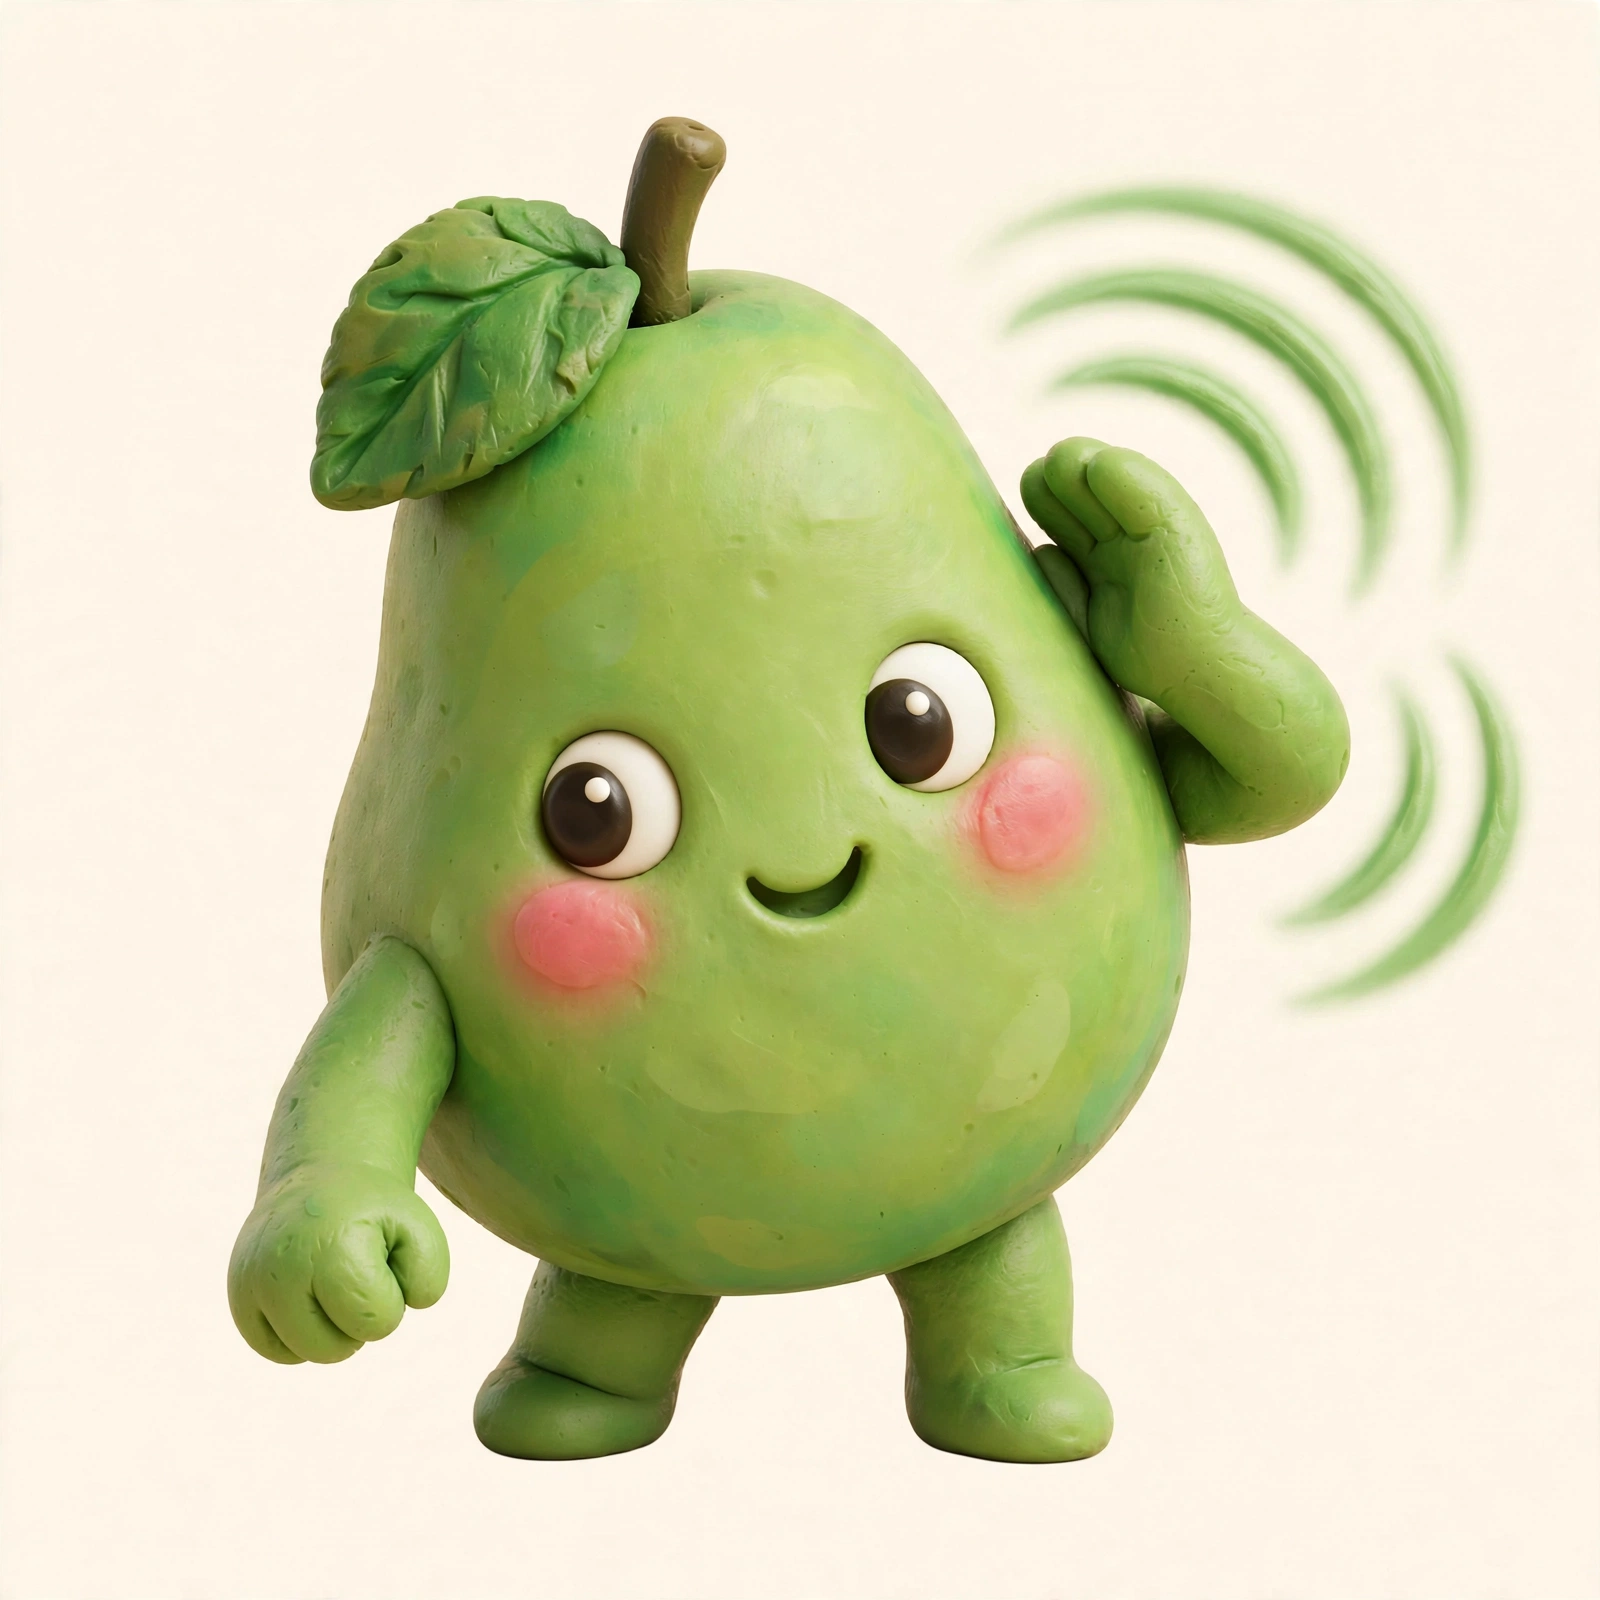
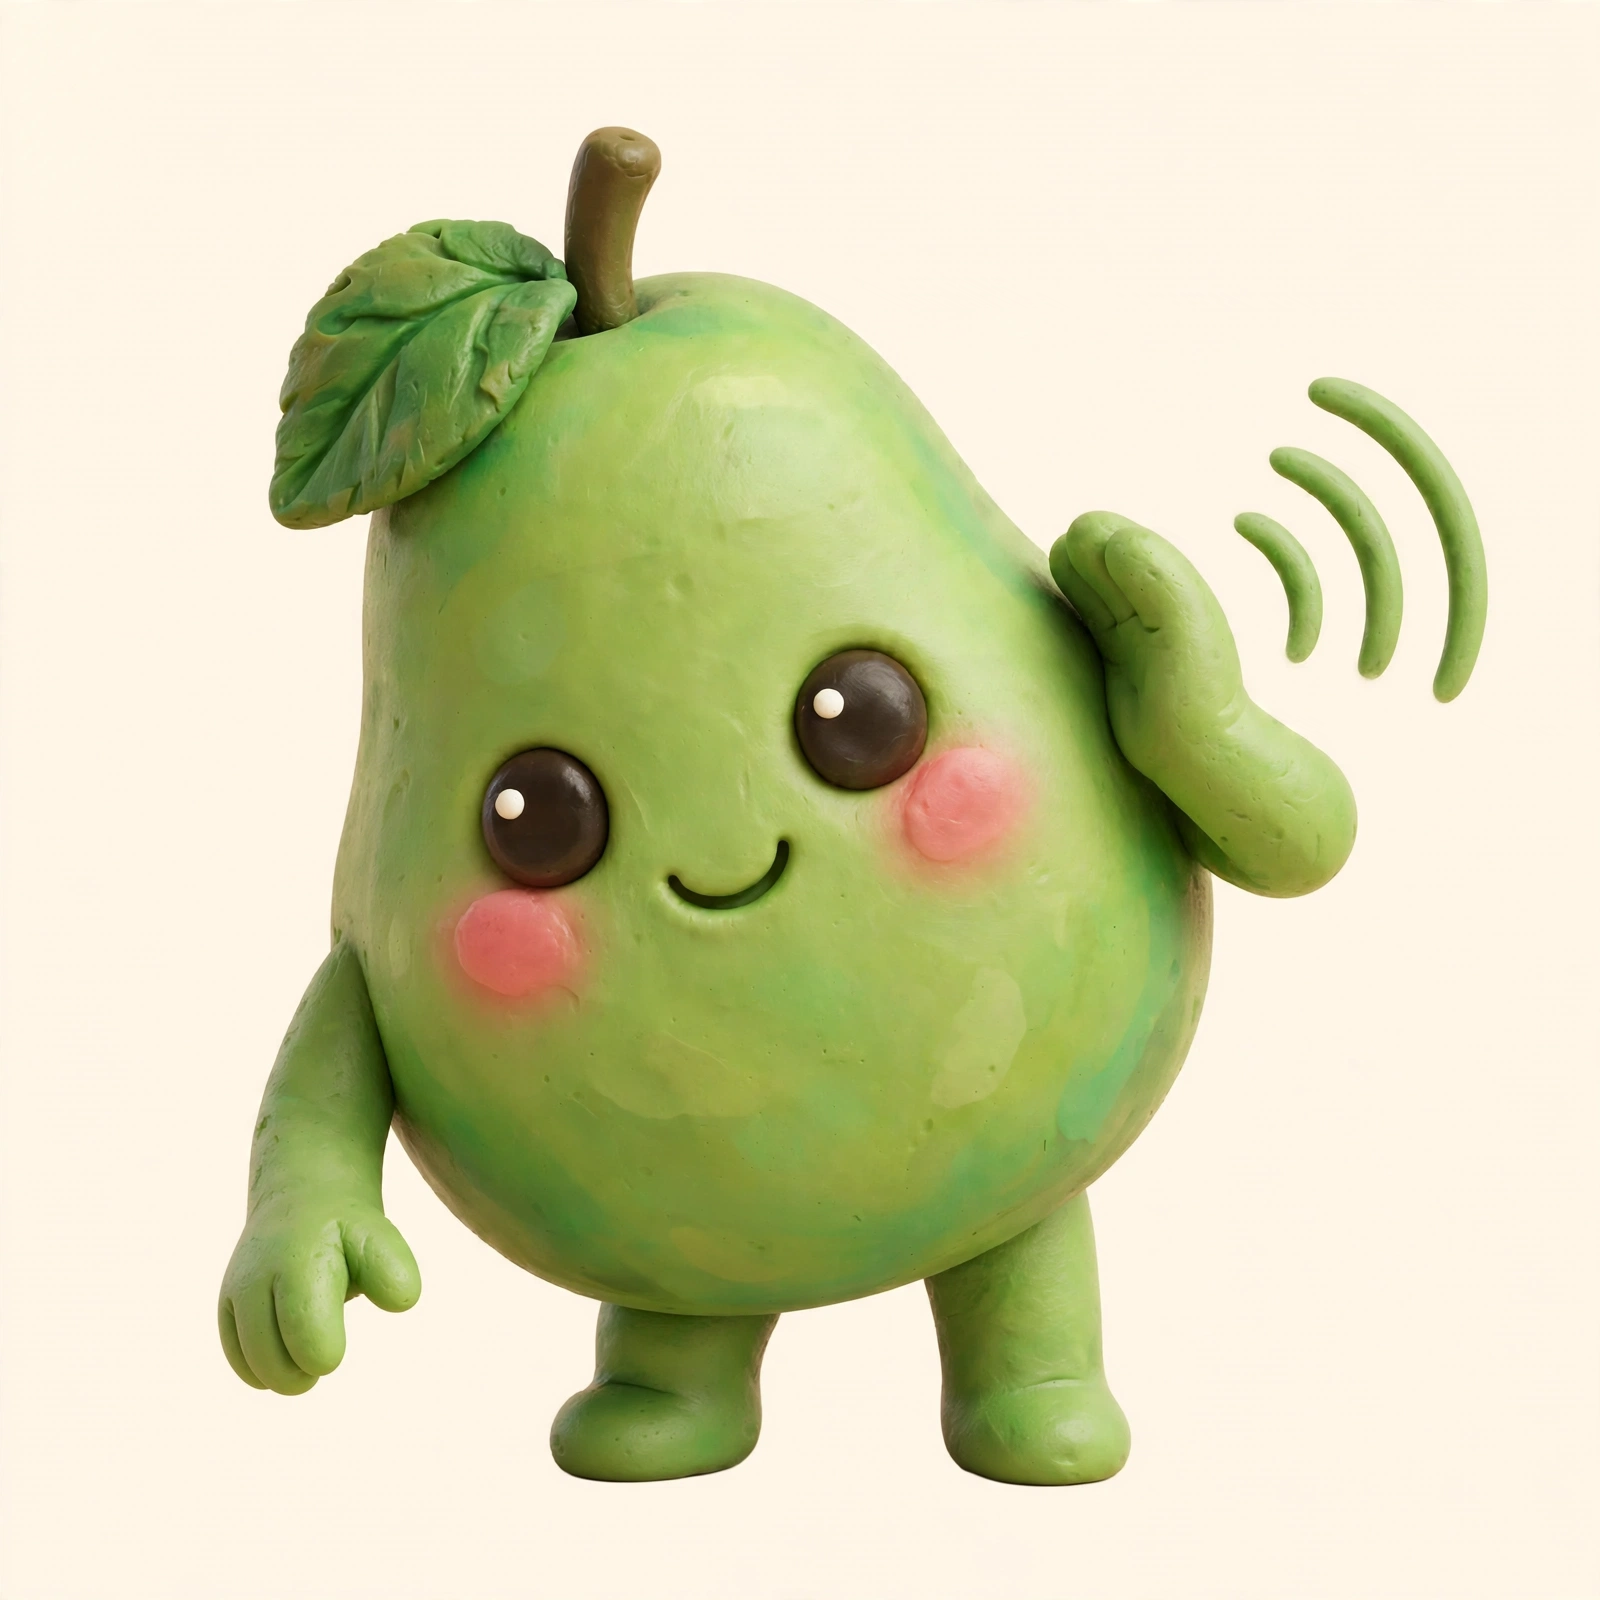
fix(peri): escuchar con los ojos negros y fotogramas más pausados

Changed region(s): [[0.125, 0.0625, 0.9688, 0.9375]]

diff --git a/android/app/src/main/java/app/friendlypear/ui/peri/PeriFace.kt b/android/app/src/main/java/app/friendlypear/ui/peri/PeriFace.kt
@@ -256,19 +256,19 @@ class PeriFace(context: Context) : FrameLayout(context) {
             if (!talking || shown == null) return
             // Now and then a hand gesture (her mouth open in it too), held a little longer, like people do.
             val gesture = listOfNotNull(frames.gestureA, frames.gestureB).filter { it != last }
-            if (gesture.isNotEmpty() && last !in gesture && Random.nextInt(6) == 0) {
+            if (gesture.isNotEmpty() && last !in gesture && Random.nextInt(9) == 0) {
                 val g = gesture.random()
                 last = g
                 put(g)
                 nodStart = SystemClock.uptimeMillis()
-                main.postDelayed(this, Random.nextLong(380, 650))
+                main.postDelayed(this, Random.nextLong(700, 1_050))
                 return
             }
             val next = listOf(frames.talk, frames.wide, frames.round, frames.still).filter { it != last }.random()
             last = next
             put(next)
             if (next != frames.still) nodStart = SystemClock.uptimeMillis()
-            main.postDelayed(this, if (next == frames.still) Random.nextLong(70, 130) else Random.nextLong(90, 170))
+            main.postDelayed(this, if (next == frames.still) Random.nextLong(110, 180) else Random.nextLong(140, 230))
         }
     }
 
@@ -279,9 +279,9 @@ class PeriFace(context: Context) : FrameLayout(context) {
                 val steps = listOf(frames.half to 0L, frames.closed to 45L, frames.half to 125L, frames.still to 170L)
                 steps.forEach { (res, at) -> main.postDelayed({ if (!talking) put(res) }, at) }
                 // Now and then a double blink, as people do.
-                if (Random.nextInt(5) == 0) steps.forEach { (res, at) -> main.postDelayed({ if (!talking) put(res) }, 260 + at) }
+                if (Random.nextInt(7) == 0) steps.forEach { (res, at) -> main.postDelayed({ if (!talking) put(res) }, 260 + at) }
             }
-            main.postDelayed(this, Random.nextLong(2_600, 5_200))
+            main.postDelayed(this, Random.nextLong(3_500, 6_500))
         }
     }
 
@@ -290,12 +290,12 @@ class PeriFace(context: Context) : FrameLayout(context) {
         override fun run() {
             if (shown != null && !talking && MOTIONS.getValue(shown!!).blinks) {
                 val side = if (Random.nextBoolean()) frames.left else frames.right
-                val back = Random.nextLong(700, 1_200)
+                val back = Random.nextLong(1_000, 1_600)
                 busyUntil = SystemClock.uptimeMillis() + back
                 put(side)
                 main.postDelayed({ if (!talking) put(frames.still) }, back)
             }
-            main.postDelayed(this, Random.nextLong(6_000, 11_000))
+            main.postDelayed(this, Random.nextLong(8_000, 14_000))
         }
     }
 
@@ -333,17 +333,17 @@ class PeriFace(context: Context) : FrameLayout(context) {
                 main.postDelayed({ if (!talking) put(frames.still) }, STEPS * STEP_MS)
             }
             Idle.LOOK -> {
-                busyUntil = now + 1_500
+                busyUntil = now + 2_100
                 put(frames.left)
-                main.postDelayed({ if (!talking) put(frames.right) }, 650)
-                main.postDelayed({ if (!talking) put(frames.still) }, 1_350)
+                main.postDelayed({ if (!talking) put(frames.right) }, 950)
+                main.postDelayed({ if (!talking) put(frames.still) }, 1_950)
             }
             Idle.WAVE -> greet()
             Idle.WINK -> {
                 val w = frames.wink ?: return
-                busyUntil = now + 600
+                busyUntil = now + 850
                 put(w)
-                main.postDelayed({ if (!talking) put(frames.still) }, 520)
+                main.postDelayed({ if (!talking) put(frames.still) }, 750)
             }
             Idle.SPIN, Idle.DROP -> {
                 action = idle
@@ -488,11 +488,11 @@ class PeriFace(context: Context) : FrameLayout(context) {
         const val CHEER_MILLIS = 2_200L
         const val POSE_MILLIS = 2_800L
         const val POP_MS = 420f
-        const val IDLE_FIRST = 2_500L
-        const val IDLE_MIN = 4_500L
-        const val IDLE_MAX = 8_500L
+        const val IDLE_FIRST = 3_500L
+        const val IDLE_MIN = 7_000L
+        const val IDLE_MAX = 12_000L
         const val SPIN_MS = 720f
-        const val DANCE_MS = 260L
+        const val DANCE_MS = 380L
         const val DANCE_STEPS = 8
         const val DROP_MS = 420f
         const val DROP_DP = 90f
@@ -501,14 +501,14 @@ class PeriFace(context: Context) : FrameLayout(context) {
         const val PRESS_SQUASH = 0.1f
         const val HOP_MS = 640f
         const val HOP_DP = 18f
-        const val STEP_MS = 230L
+        const val STEP_MS = 340L
         const val STEPS = 8
         const val STRETCH_MS = 900L
         const val LAND_SQUASH = 0.07f
         const val NOD_MS = 170f
         const val NOD = 0.018f
         const val WAVE_START = 400L
-        const val WAVE_STEP = 170L
+        const val WAVE_STEP = 240L
         /** Where her feet are, as a fraction of the illustration's height. */
         const val FEET = 0.885f
         /** The shadow is a circle squashed flat onto the ground. */
@@ -522,7 +522,7 @@ class PeriFace(context: Context) : FrameLayout(context) {
             Mood.PROTECTIVE to Motion(tilt = 1.2f, tiltMs = 3_200, bob = 2f, bobMs = 1_600, sway = 0.8f, idles = listOf(Idle.LOOK, Idle.STEPS)),
             Mood.CALLING to Motion(tilt = 2.5f, tiltMs = 2_800, bob = 3f, bobMs = 1_400, sway = 1.5f, idles = listOf(Idle.STEPS, Idle.LOOK, Idle.WINK)),
             Mood.WAITING to Motion(tilt = 4f, tiltMs = 4_400, bob = 2.5f, bobMs = 2_200, sway = 2.5f, idles = listOf(Idle.STEPS, Idle.LOOK, Idle.STRETCH, Idle.DANCE)),
-            Mood.HAPPY to Motion(tilt = 4.5f, tiltMs = 1_600, bob = 16f, bobMs = 800, bounce = true, sway = 3f, idles = listOf(Idle.SPIN, Idle.WINK, Idle.HOP), runs = true),
+            Mood.HAPPY to Motion(tilt = 4.5f, tiltMs = 1_800, bob = 16f, bobMs = 1_000, bounce = true, sway = 3f, idles = listOf(Idle.SPIN, Idle.WINK, Idle.HOP), runs = true),
             Mood.SLEEPING to Motion(tilt = 0.8f, tiltMs = 6_000, bob = 0f, bobMs = 1_000, breath = 0.03f, breathMs = 4_600, blinks = false, sway = 0f),
         )
 

diff --git a/assets/peri/generate.ts b/assets/peri/generate.ts
@@ -34,7 +34,7 @@ const CHARACTER =
 
 export const STATES: Record<string, string> = {
   calm: "Peri standing relaxed with a warm, gentle smile, big round eyes fully open and bright, welcoming and kind.",
-  listening: "Peri leaning forward attentively with wide open eyes and one hand cupped behind where an ear would be, soft green sound waves around.",
+  listening: "Peri leaning forward attentively, one hand cupped behind where an ear would be, soft green sound waves around. Her eyes stay exactly like in the image: big, round, solid dark brown-black with a small white shine, no white around them.",
   thinking: "Peri looking through a big magnifying glass with a curious face, three small yellow dots rising above the head.",
   worried: "Peri with a gentle worried frown, head tilted, pointing at a small floating message card with a soft coral border.",
   protective: "Peri holding open a big coral umbrella over a small message card, brave and caring expression, standing in front of it.",
